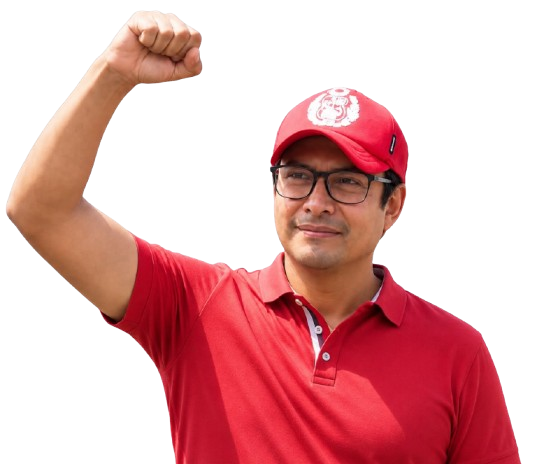
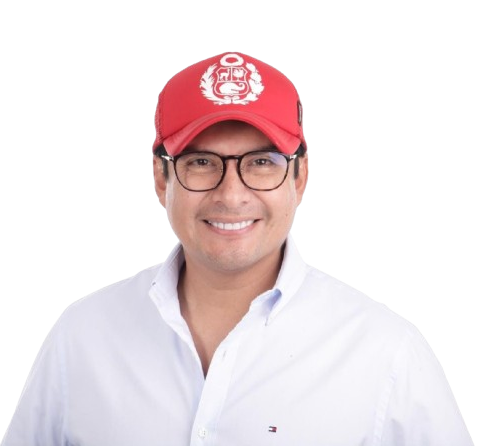
se cambio la foto principal

diff --git a/src/components/Hero/Hero.module.css b/src/components/Hero/Hero.module.css
@@ -161,11 +161,11 @@
 /* ── Image ───────────────────────────────────────────────── */
 .imageWrapper {
   position: absolute;
-  right: 4%;
+  right: 2%;
   top: 60px;
   transform: none;
-  height: calc(100% - 60px - 240px);
-  width: 52%;
+  height: calc(100% - 60px - 200px);
+  width: 58%;
   overflow: hidden;
   z-index: 1;
   border-radius: 0;
@@ -569,9 +569,9 @@
     right: auto;
     top: auto;
     transform: none;
-    width: 65%;
-    height: 46vw;
-    max-height: 300px;
+    width: 76%;
+    height: 54vw;
+    max-height: 370px;
     margin: 0 auto;
   }
   .content {
@@ -609,7 +609,7 @@
   .hero { padding-top: 72px !important; }
   .titleMain { font-size: clamp(2.8rem, 13vw, 3.8rem); }
   .titleSub  { font-size: clamp(2.8rem, 13vw, 3.8rem); }
-  .imageWrapper { width: 72%; height: 46vw; max-height: 240px; }
+  .imageWrapper { width: 84%; height: 54vw; max-height: 300px; }
   .socialCircle { width: 44px; height: 44px; }
   .apoyaBtn { font-size: 1.45rem; letter-spacing: 4px; padding: .85rem 2rem; }
   .content :global(.btn-primary) { font-size: 1.45rem; letter-spacing: 4px; padding: .85rem 2rem; }
@@ -621,7 +621,7 @@
 @media (max-width: 390px) {
   .titleMain { font-size: clamp(2.5rem, 14vw, 3.2rem); }
   .titleSub  { font-size: clamp(2.5rem, 14vw, 3.2rem); }
-  .imageWrapper { width: 80%; height: 46vw; max-height: 220px; }
+  .imageWrapper { width: 90%; height: 54vw; max-height: 265px; }
   .content :global(.btn-primary) { font-size: 1.3rem; letter-spacing: 3px; padding: .8rem 1.8rem; }
   .apoyaBtn { font-size: 1.3rem; letter-spacing: 3px; padding: .8rem 1.8rem; }
   .apoyaSecundario { font-size: 1.1rem; letter-spacing: 2px; padding: .75rem 1.5rem; margin: 0 auto .4rem; position: relative; z-index: 20; pointer-events: auto !important; }
